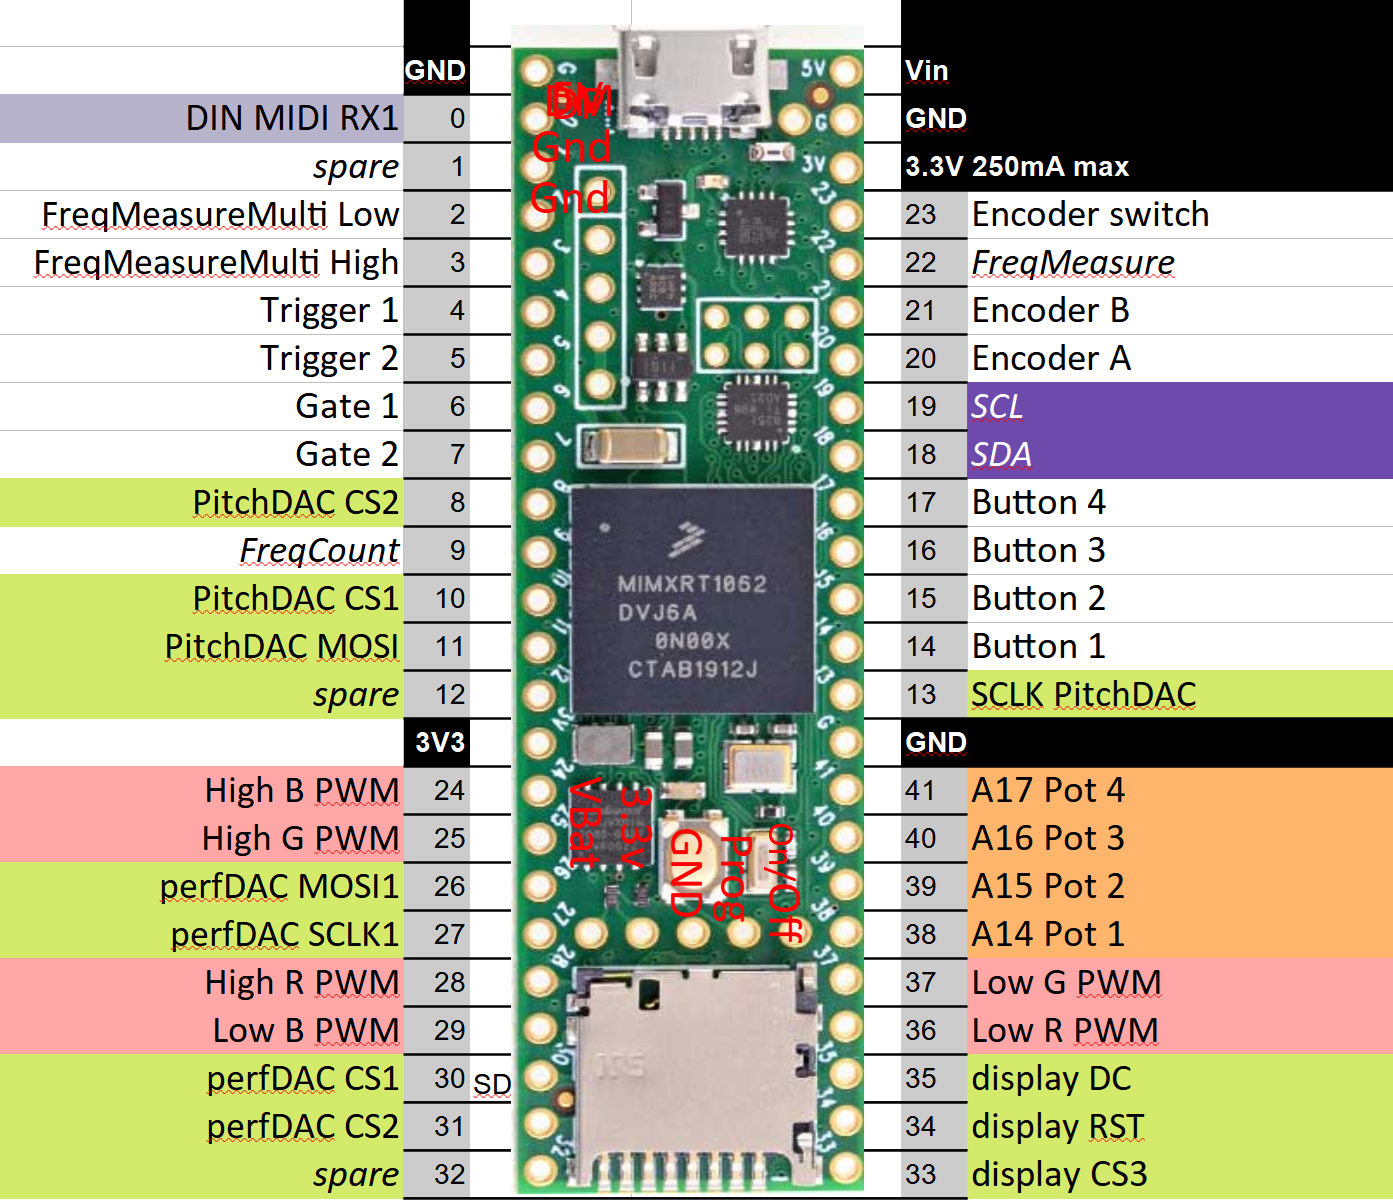
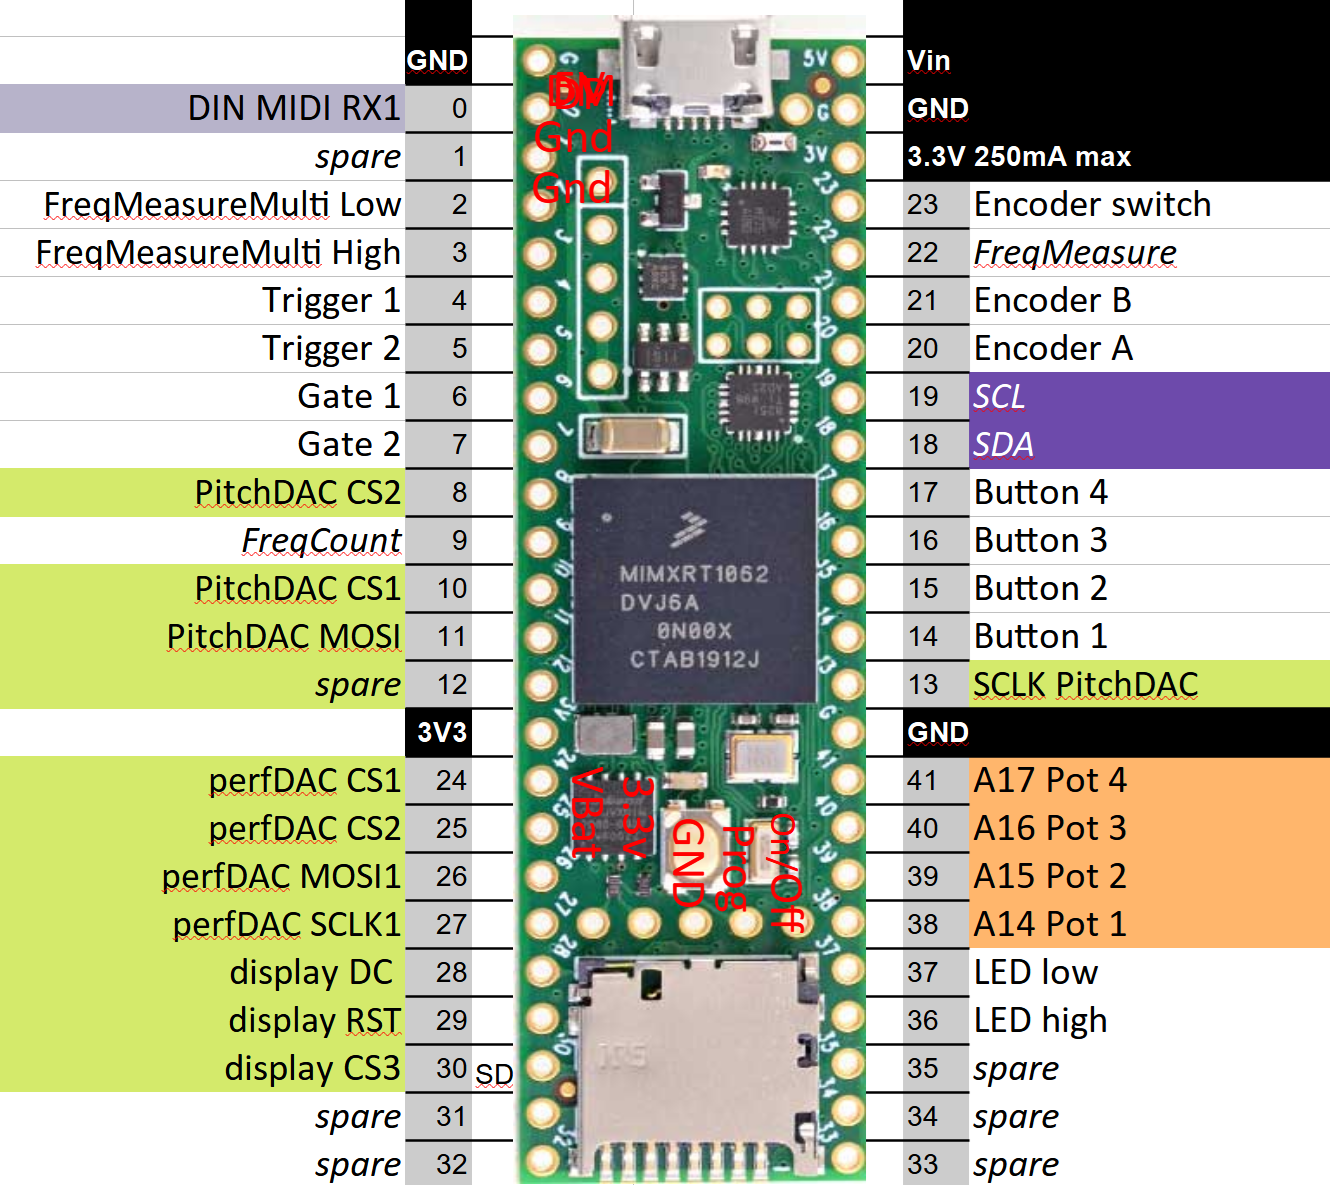
shoehorning tiny pcbs

diff --git a/Duophonic/MPU-board.md b/Duophonic/MPU-board.md
@@ -200,14 +200,7 @@ But maybe better to group these closer to the RGB LED outs as they all get route
 
 ### RGB LED control
 
-Two (Low, High channel) RGB LEDs need 6 PWM outputs. See [PWM Frequency](https://www.pjrc.com/teensy/td_pulse.html) and [freq measure multi on teensy 4.0](https://forum.pjrc.com/index.php?threads/freq-measure-multi-on-teensy-4-0.74384/#post-338376). These are at 4.482 kHz by default:
-
-- 24 Low G (FlexPWM1.2)
-- 25 Low B (FlexPWM1.3)
-- 36 High R (FlexPWM2.3)
-- 37 High G (FlexPWM2.3)
-- 28 Low R (FlexPWM3.1)
-- 29 High B (FlexPWM3.1)
+Now using 2 Neopixels, see [Gate LED](./Gate-LED.md). Needs 3V3, GND and any two data pins.
 
 ### "Fader" pots
 

diff --git a/Duophonic/performance-dac.md b/Duophonic/performance-dac.md
@@ -266,8 +266,8 @@ Eight identical copies of this:
 
 Because of limited board space, the buffer board takes 5V5 from the power board then passes it on to the v0.2 DAC board.
 
->  We detected a 2 layer board of 1.83 x 0.94 inches (46.5 x 24.0mm)
-> 3 boards will cost $8.60 
+> We detected a 2 layer board of 1.83 x 0.94 inches (46.5 x 24.0mm)
+> 3 boards will cost $8.60
 
 ![buffer board](./img/perfDAC_buffer_board.png)
 
